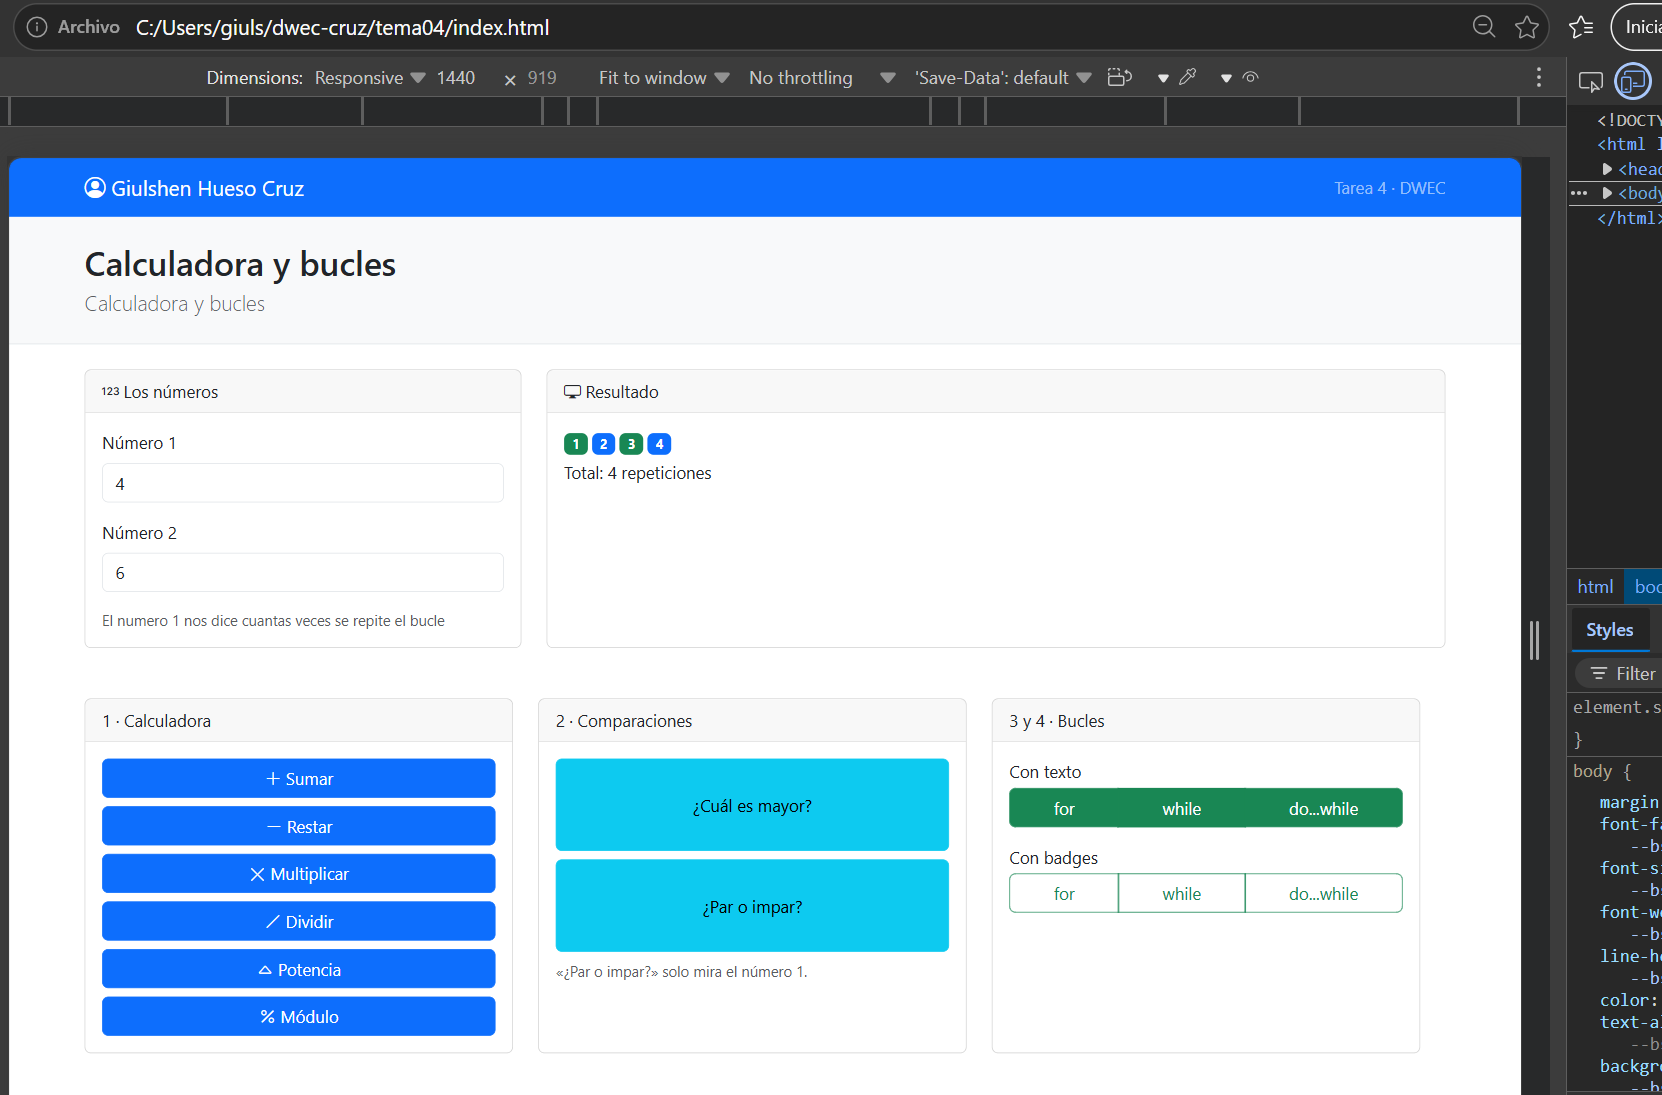
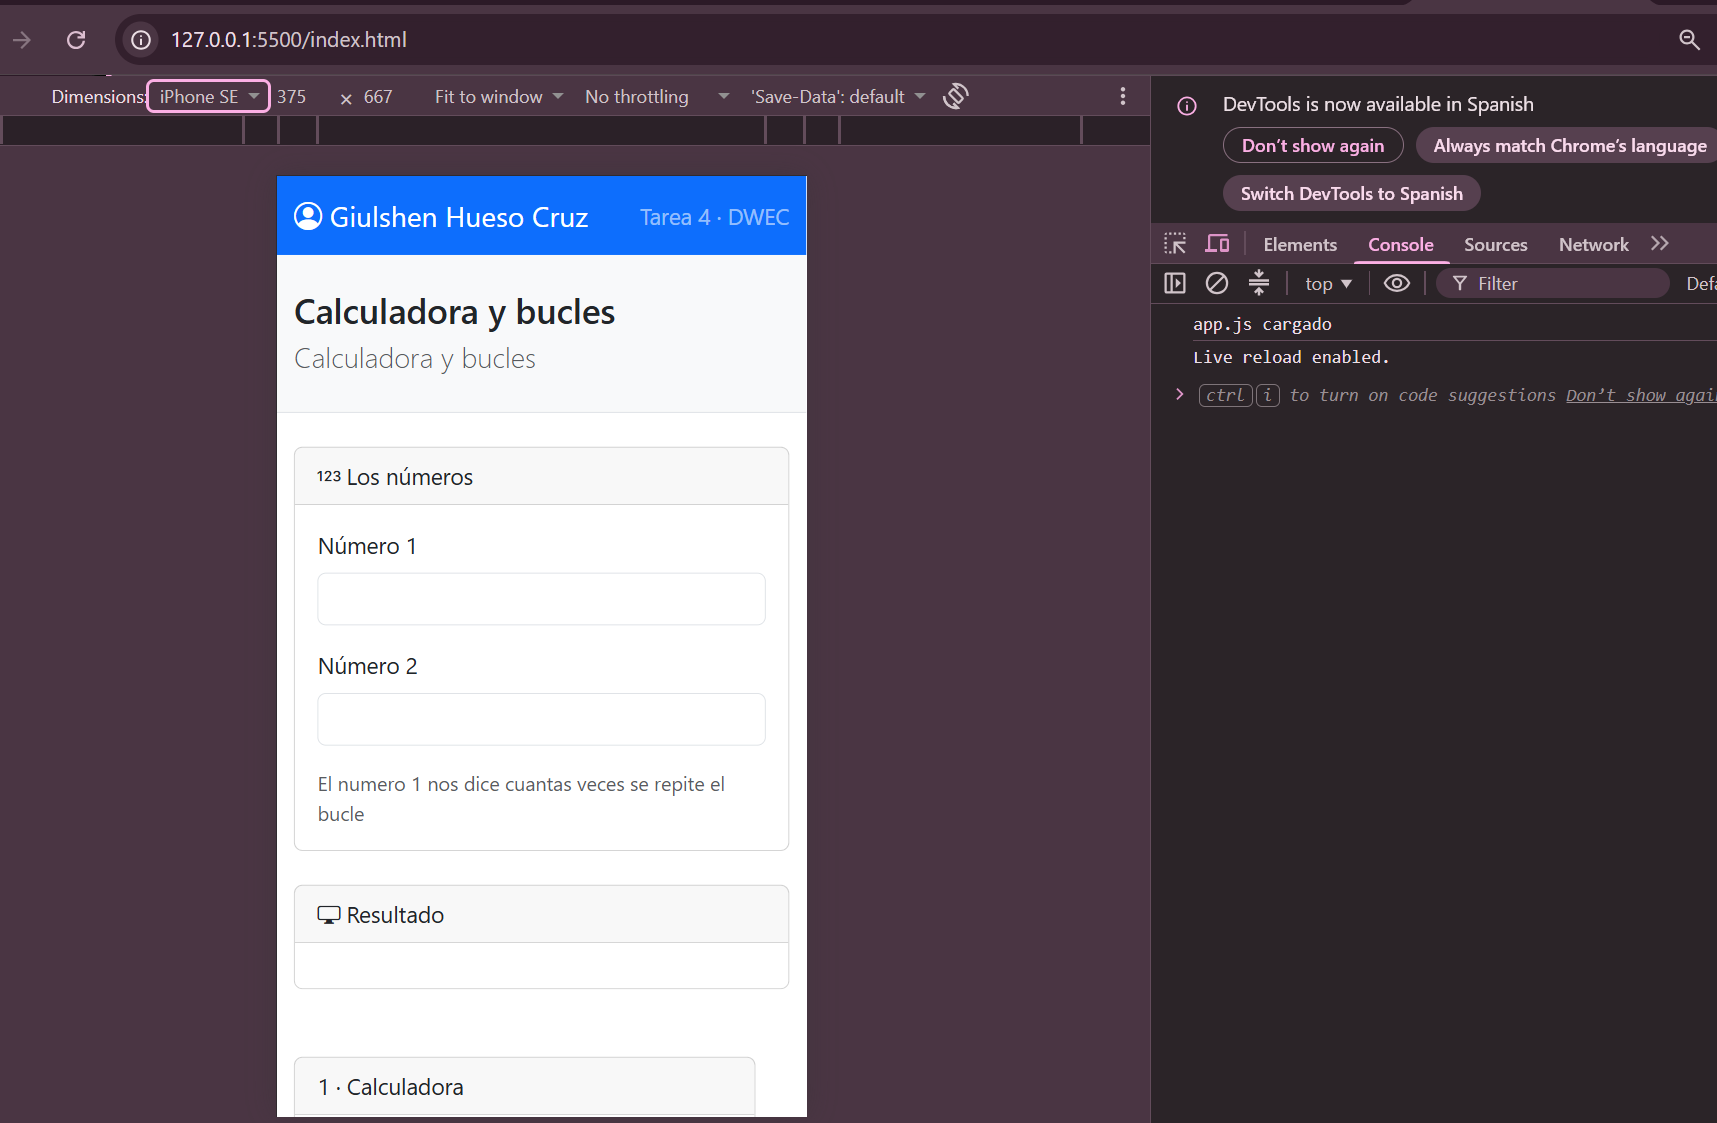
capturas completas y corregidas

diff --git a/tema04/README.md b/tema04/README.md
@@ -1,6 +1,6 @@
 # Tarea 4 · Calculadora y bucles
 
-**Autor:** [Tu nombre y apellidos] · Desarrollo Web en Entorno Cliente (DWEC) · 2.º DAW · Curso 2026-27
+**Autor:** Giulshen Hueso Cruz · Desarrollo Web en Entorno Cliente (DWEC) · 2.º DAW · Curso 2026-27
 
 > **Plantilla de la tarea 4.** Cómo usarla:
 >
